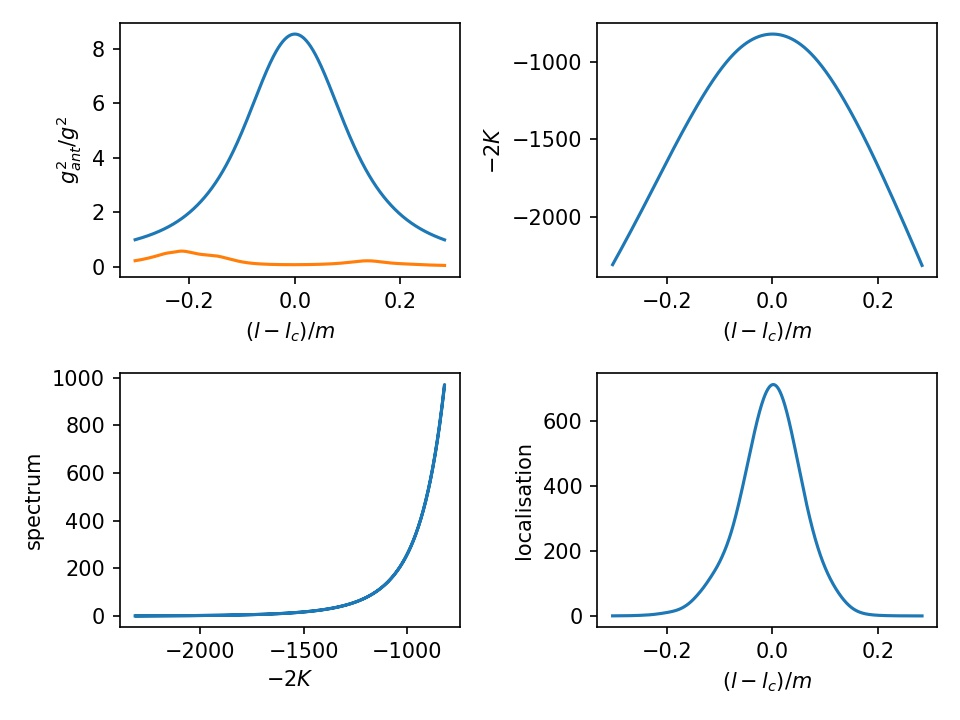
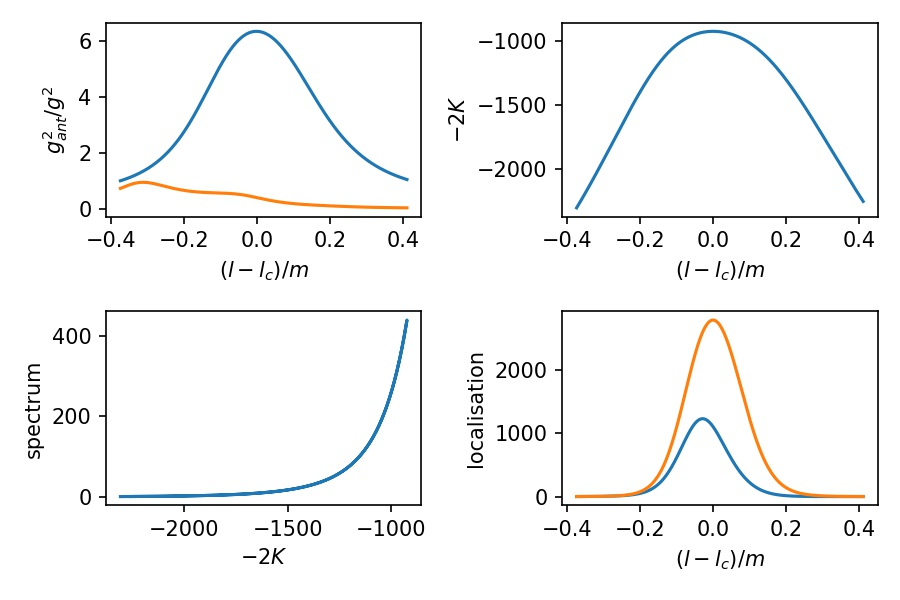
Stable version

diff --git a/Figures/Mismatch/test.tex b/Figures/Mismatch/test.tex
@@ -1,0 +1,126 @@
+% This file was created by tikzplotlib v0.9.6.
+\begin{tikzpicture}
+
+\definecolor{color0}{rgb}{1,0.498039215686275,0.0549019607843137}
+\definecolor{color1}{rgb}{0.12156862745098,0.466666666666667,0.705882352941177}
+
+\begin{axis}[
+tick align=outside,
+tick pos=left,
+x grid style={white!69.0196078431373!black},
+xmin=-16.750022610979, xmax=17.5625278205819,
+xtick style={color=black},
+y grid style={white!69.0196078431373!black},
+ymin=-0.0566298510126379, ymax=1.18968690857077,
+ytick style={color=black}
+]
+\path [draw=color0, semithick]
+(axis cs:-4.52524479559365,0.299268820624092)
+--(axis cs:-4.52524479559365,0.481932891354633);
+
+\path [draw=color0, semithick]
+(axis cs:-8.74341152865101,0.00434167178425971)
+--(axis cs:-8.74341152865101,0.00672697580067228);
+
+\path [draw=color0, semithick]
+(axis cs:-12.6471499750575,0.0025631556316714)
+--(axis cs:-12.6471499750575,0.00685251811732557);
+
+\path [draw=color0, semithick]
+(axis cs:4.68180096928977,0.288945057451303)
+--(axis cs:4.68180096928977,0.686100268555939);
+
+\path [draw=color0, semithick]
+(axis cs:9.53786463242363,0.0123240707514649)
+--(axis cs:9.53786463242363,0.028058707772011);
+
+\path [draw=color0, semithick]
+(axis cs:-0.0303111881273633,0.866963853228478)
+--(axis cs:-0.0303111881273633,1.13303614677152);
+
+\addplot [semithick, color1]
+table {%
+16.0028664373291 2.09107866078145e-05
+15.5019804060835 4.32026966794313e-05
+15.0010134446593 8.65247659168137e-05
+14.5000129794234 0.00016846843599711
+13.9990612616521 0.000317621566449047
+13.5095902258752 0.000572652005800215
+13.0089653000154 0.00102252272783255
+12.508552590023 0.00177437331203595
+12.0083994651273 0.00299401900027605
+11.5203311831527 0.0048639818663355
+11.0209718841691 0.00780234899509983
+10.522031527847 0.0122177458350964
+10.0356467098536 0.0184647027436416
+9.53786463242363 0.0275432326616724
+9.05293227613731 0.0397413362292673
+8.55652691354178 0.056586017969222
+8.07328410735344 0.0780965738763003
+7.57848269775676 0.106443058198679
+7.09715431765188 0.140853843537707
+6.60416962481855 0.184135710586302
+6.12499130656764 0.233971162200415
+5.63408886041246 0.293369389276132
+5.15728469809953 0.35847118331985
+4.68180096928977 0.429962617706465
+4.19445786969287 0.508495778844873
+3.72169700760152 0.587599751400865
+3.2504410303895 0.666830441805864
+2.76716254755995 0.745785888317693
+2.2989438023173 0.816833786397714
+1.83238757889452 0.879465465986436
+1.36756715329542 0.930973848959404
+0.89050442157629 0.970138154833876
+0.429152481010124 0.99298347321993
+-0.0303111881273633 0.999964864660548
+-0.487836802998437 0.990934601497163
+-0.943377343248265 0.966493465996016
+-1.39687879947519 0.927959663251433
+-1.84827411185583 0.877166583706867
+-2.31235747521905 0.814342168927651
+-2.7595525309512 0.746139013335926
+-3.20448712682099 0.673342096157743
+-3.64710983931649 0.598502772271936
+-4.08738073171223 0.524071220820839
+-4.52524479559365 0.452105296199492
+-4.96064151515727 0.38429216206419
+-5.3935303935364 0.321874680850281
+-5.82384575993214 0.265657644753217
+-6.25154788645878 0.216130214744231
+-6.66051471598014 0.174488881110224
+-7.08272032371984 0.13788836740382
+-7.50217143301498 0.107425330446791
+-7.91880044686293 0.0825251736176341
+-8.3325603241366 0.0624266731452902
+-8.74341152865101 0.0465585658203397
+-9.15130722291967 0.0342197077323746
+-9.55620587302388 0.0247986018924741
+-9.95805984926624 0.0177041465166756
+-10.3396653261676 0.0126260602741104
+-10.7352305835748 0.00877205506388833
+-11.1276417048484 0.0060058227896583
+-11.5168608429633 0.00406114067632952
+-11.9028433293092 0.00270359515613201
+-12.2855690608588 0.00177125330725246
+-12.6471499750575 0.00116287680253254
+-13.0232245202713 0.000744042815509411
+-13.3959578043359 0.00046872608321309
+-13.7653324428646 0.000291790653102558
+-14.1313227863844 0.000178794834663396
+-14.4755031362349 0.000110166381860217
+-14.834642744605 6.5888373852192e-05
+-15.1903612277262 3.89053007589173e-05
+};
+\addplot [semithick, color0, mark=*, mark size=3, mark options={solid}, only marks]
+table {%
+-4.52524479559365 0.390600855989362
+-8.74341152865101 0.005534323792466
+-12.6471499750575 0.00470783687449848
+4.68180096928977 0.487522663003621
+9.53786463242363 0.0201913892617379
+-0.0303111881273633 1
+};
+\end{axis}
+
+\end{tikzpicture}

diff --git a/Scotty_main.py b/Scotty_main.py
@@ -19,13 +19,13 @@ numberOfTauPoints = 1001
 saveInterval = 1  # saves every n time steps
 
 poloidal_launch_angle_Torbeam = 4.0 # deg
-# toroidal_launch_angle_Torbeam = -9.25 # deg
-toroidal_launch_angle_Torbeam_scan = np.linspace(0,-10,21)
+toroidal_launch_angle_Torbeam = -5.25 # deg
+# toroidal_launch_angle_Torbeam_scan = np.linspace(-0.5,-7.5,71)
 
 launch_freq_GHz = 55.0
 mode_flag = 1 # O-mode (1) or X-mode (-1)
-launch_beam_width = 0.06 # in m
-launch_beam_curvature = -192 # in m. negative because launched BEFORE the beam waist
+launch_beam_width = 0.0554 # in m
+launch_beam_curvature = -1.77 # in m. negative because launched BEFORE the beam waist
 vacuumLaunch_flag = True # If true, the launch_position is in vacuum. If false, the launch_position is in plasma.
 
 
@@ -52,45 +52,45 @@ find_B_method='efit'
 
 launch_position = np.asarray([2.43521,0,0]) # q_R, q_zeta, q_Z. q_zeta = 0 at launch, by definition
 
-# beam_me_up(tau_step,
-#            numberOfTauPoints,
-#            saveInterval,
-#            poloidal_launch_angle_Torbeam,
-#            toroidal_launch_angle_Torbeam,
-#            launch_freq_GHz,
-#            mode_flag,
-#            vacuumLaunch_flag,
-#            launch_beam_width,
-#            launch_beam_curvature,
-#            launch_position,
-#            find_B_method,
-#            vacuum_propagation_flag,
-#            Psi_BC_flag,
-#            poloidal_flux_enter,
-#            input_filename_suffix,
-#            output_filename_suffix='9',
-#            figure_flag= True)
+beam_me_up(tau_step,
+            numberOfTauPoints,
+            saveInterval,
+            poloidal_launch_angle_Torbeam,
+            toroidal_launch_angle_Torbeam,
+            launch_freq_GHz,
+            mode_flag,
+            vacuumLaunch_flag,
+            launch_beam_width,
+            launch_beam_curvature,
+            launch_position,
+            find_B_method,
+            vacuum_propagation_flag,
+            Psi_BC_flag,
+            poloidal_flux_enter,
+            input_filename_suffix,
+            output_filename_suffix='',
+            figure_flag= True)
 
-for ii in range(0,51):
-    print('Iteration number: ' + str(ii))
+# for ii in range(0,71):
+#     print('Iteration number: ' + str(ii))
     
-    toroidal_launch_angle_Torbeam = toroidal_launch_angle_Torbeam_scan[ii]
+#     toroidal_launch_angle_Torbeam = toroidal_launch_angle_Torbeam_scan[ii]
 
-    beam_me_up(tau_step,
-              numberOfTauPoints,
-              saveInterval,
-              poloidal_launch_angle_Torbeam,
-              toroidal_launch_angle_Torbeam,
-              launch_freq_GHz,
-              mode_flag,
-              vacuumLaunch_flag,
-              launch_beam_width,
-              launch_beam_curvature,
-              launch_position,
-              find_B_method,
-              vacuum_propagation_flag,
-              Psi_BC_flag,
-              poloidal_flux_enter,
-              input_filename_suffix,
-              output_filename_suffix=str(ii),
-              figure_flag= True)
+#     beam_me_up(tau_step,
+#               numberOfTauPoints,
+#               saveInterval,
+#               poloidal_launch_angle_Torbeam,
+#               toroidal_launch_angle_Torbeam,
+#               launch_freq_GHz,
+#               mode_flag,
+#               vacuumLaunch_flag,
+#               launch_beam_width,
+#               launch_beam_curvature,
+#               launch_position,
+#               find_B_method,
+#               vacuum_propagation_flag,
+#               Psi_BC_flag,
+#               poloidal_flux_enter,
+#               input_filename_suffix,
+#               output_filename_suffix=str(ii),
+#               figure_flag= False)

diff --git a/Figures/Localisation/Localisation4.py b/Figures/Localisation/Localisation4.py
@@ -101,17 +101,20 @@ def find_D_matrix(K_magnitude,launch_angular_frequency,epsilon_para,epsilon_perp
 
     return D_matrix
 
+def find_nearest(array,  value): #returns the index
+    array = np.asarray(array)
+    idx = (np.abs(array - value)).argmin()
+    return int(idx)
 
 
 
+suffix = '33'
 
-
-
-loadfile = np.load('data_input.npz')
+loadfile = np.load('data_input' + suffix + '.npz')
 launch_freq_GHz =loadfile['launch_freq_GHz']
 loadfile.close()
 
-loadfile = np.load('analysis_output.npz')
+loadfile = np.load('analysis_output' + suffix + '.npz')
 #localisation_piece = loadfile['localisation_piece']
 cutoff_index = loadfile['cutoff_index']
 RZ_distance_along_line = loadfile['RZ_distance_along_line']
@@ -129,7 +132,7 @@ theta_m_output = loadfile['theta_m_output']
 K_magnitude_array = loadfile['K_magnitude_array']
 loadfile.close()
 
-loadfile = np.load('data_output.npz')
+loadfile = np.load('data_output' + suffix + '.npz')
 g_magnitude_output = loadfile['g_magnitude_output']
 q_R_array = loadfile['q_R_array']
 K_R_array = loadfile['K_R_array']
@@ -211,7 +214,7 @@ plt.ylim(0,1)
 
 
 
-out_index_new=out_index+50
+out_index_new=out_index-20
 
 ray_localisation_piece = g_magnitude[0]**2/g_magnitude**2
 
@@ -234,8 +237,17 @@ Psi_w[:,0,1] = Psi_w[:,1,0]
 beam_localisation_piece = np.linalg.det(np.imag(Psi_w)) / abs(np.linalg.det(M_w))
 # --
 
+ray_and_spectrum_piece = ray_localisation_piece * spectrum
 overall_localisation_piece = beam_localisation_piece * ray_localisation_piece * spectrum
+localisation_no_spectrum = beam_localisation_piece * ray_localisation_piece
 
+localisation_1_over_e = overall_localisation_piece.max() / (np.e)
+localisation_index = find_nearest(overall_localisation_piece,overall_localisation_piece.max())
+localised_distance_from_cutoff = distance_along_line[localisation_index]-distance_along_line[cutoff_index]
+
+w_1_over_e_index_1 = find_nearest(overall_localisation_piece[0:localisation_index],localisation_1_over_e)
+w_1_over_e_index_2 = localisation_index + find_nearest(overall_localisation_piece[localisation_index:],localisation_1_over_e)
+half_width = 0.5*(distance_along_line[w_1_over_e_index_2] - distance_along_line[w_1_over_e_index_1])
 
 plt.figure()
 plt.subplot(2,2,1)
@@ -253,11 +265,14 @@ plt.ylabel('spectrum')
 plt.xlabel(r'$- 2 K$')
 plt.subplot(2,2,4)
 plt.plot(distance_along_line[:out_index_new]-distance_along_line[cutoff_index],overall_localisation_piece[:out_index_new])
+plt.plot(distance_along_line[:out_index_new]-distance_along_line[cutoff_index],ray_and_spectrum_piece[:out_index_new])
 plt.xlabel(r'$(l - l_c) / m$')
 plt.ylabel('localisation')
 plt.tight_layout(pad=1.08, h_pad=None, w_pad=None, rect=None)
 plt.savefig('localisation.jpg',dpi=150)
 
+plt.figure()
+plt.plot(distance_along_line[:out_index_new]-distance_along_line[cutoff_index],localisation_no_spectrum[:out_index_new])
 
 plt.figure()
 plt.plot(distance_along_line[:out_index_new]-distance_along_line[cutoff_index],beam_localisation_piece[:out_index_new])

diff --git a/Figures/Mismatch/ExtractDataFromSweep.py b/Figures/Mismatch/ExtractDataFromSweep.py
@@ -8,6 +8,7 @@ Created on Sun Sep 27 08:37:48 2020
 import numpy as np
 import matplotlib.pyplot as plt
 from scipy.integrate import simps
+import tikzplotlib
 
 
 
@@ -39,11 +40,19 @@ from scipy.integrate import simps
 #theta_m_output = loadfile['theta_m_output']
 #loadfile.close()
 
-numberOfRuns = 41
+numberOfRuns = 71
+# toroidal_launch_angle_Torbeam_scan = np.linspace(-0.5,-7.5,71)
 
-mismatch_angle_offset = np.asarray([6.17073,10.24059,13.86935,-3.20812,-8.38919,1.668527])
+
+## The following values are ordered
+# 29904, 29905, 29906, 29908, 29909, 29910 # Shot number
+#     7,     8,     9,     5,     4,     6 # As recorded in the DBS logs
+#    -4,    -5,    -6,    -2,    -1,    -3 # In Jon's paper (no offset, presumably) (just the sign convention, and the 3deg from some misalignment between the mirror and flange)
+#    -5,    -6,    -7,    -3,    -2,    -4 # What I am using, ie 1 deg offset
+    
 scattered_power = np.asarray([0.000373357,5.29E-06,4.50E-06,4.66E-04,1.93E-05,0.000955853])
 scattered_power_stdev = np.asarray([8.73E-05,1.14E-06,2.05E-06,0.000189811,7.52E-06,0.000127163])
+# --
 
 theta_m_sweep                = np.zeros(numberOfRuns)
 delta_theta_m_sweep          = np.zeros(numberOfRuns) 
@@ -61,6 +70,9 @@ for ii in range(0,numberOfRuns):
     delta_theta_m_sweep[ii]          = delta_theta_m[cutoff_index] 
     k_perp_1_backscattered_sweep[ii] = k_perp_1_backscattered[cutoff_index]
     
+mismatch_angle_offset = np.rad2deg(np.asarray([theta_m_sweep[43],theta_m_sweep[53],theta_m_sweep[63],theta_m_sweep[23],theta_m_sweep[13],theta_m_sweep[33]]))
+# mismatch_angle_offset = np.asarray([6.17073,10.24059,13.86935,-3.20812,-8.38919,1.668527])
+    
 k_to_choose = k_perp_1_backscattered_sweep[0]
 turbulence_piece = (k_perp_1_backscattered_sweep/k_to_choose)**(-2*10/3)
 plt.figure()
@@ -68,5 +80,7 @@ plt.plot(np.rad2deg(theta_m_sweep),np.exp(-(theta_m_sweep/delta_theta_m_sweep)**
 #plt.plot(np.rad2deg(theta_m_sweep),np.exp(-(theta_m_sweep/delta_theta_m_sweep)**2)*turbulence_piece)
 plt.errorbar(mismatch_angle_offset, scattered_power/max(scattered_power), yerr=(scattered_power_stdev/max(scattered_power)), fmt='o',label='Data')
 
-plt.figure()
-plt.plot(theta_m_sweep)
+# plt.figure()
+# plt.plot(theta_m_sweep)
+
+tikzplotlib.save("test.tex")

diff --git a/Scotty_beam_me_up.py b/Scotty_beam_me_up.py
@@ -278,6 +278,8 @@ def beam_me_up(tau_step,
         unnormalizedPoloidalFlux = fluxFunctionProfiles.variables['poloidalFlux'][time_index][:] # poloidalFlux as a function of normalised poloidal flux
         rBphi = fluxFunctionProfiles.variables['rBphi'][time_index][:] 
 
+        dataset.close()
+
         interp_rBphi = interpolate.interp1d(poloidalFlux, rBphi, 
                                                  kind='cubic', axis=-1, copy=True, bounds_error=True, 
                                                  fill_value=0, assume_sorted=False)
@@ -1188,7 +1190,7 @@ def beam_me_up(tau_step,
     sin_theta_m_analysis = np.zeros(numberOfDataPoints)
     sin_theta_m_analysis[:] = (b_hat_output[:,0]*K_R_array[:] + b_hat_output[:,1]*K_zeta_initial/q_R_array[:] + b_hat_output[:,2]*K_Z_array[:]) / (K_magnitude_array[:]) # B \cdot K / (abs (B) abs(K))
     theta_m_output = np.sign(sin_theta_m_analysis)*np.arcsin(abs(sin_theta_m_analysis)) # Assumes the mismatch angle is never smaller than -90deg or bigger than 90deg
-#    print(theta_m_output[cutoff_index])
+    print(theta_m_output[cutoff_index])
 #    print(cutoff_index)
     
 #    g_magnitude_launch = find_g_magnitude(launch_position[0],launch_position[1],K_R_launch,K_zeta_launch,K_Z_launch,
@@ -1197,6 +1199,7 @@ def beam_me_up(tau_step,
 #    d_K_d_tau_analysis = np.gradient(K_magnitude_array,tau_array)
 #    localisation_piece = g_magnitude_launch**2/abs(g_magnitude_output*d_K_d_tau_analysis)
     
+    # This part is used to make some nice plots when post-processing
     R_midplane_points = np.linspace(data_R_coord[0],data_R_coord[-1],1000)
     poloidal_flux_on_midplane = np.zeros_like(R_midplane_points)
     for ii in range(0,1000):

diff --git a/Scotty_plot2.py b/Scotty_plot2.py
@@ -9,7 +9,7 @@ import numpy as np
 import matplotlib.pyplot as plt
 from Scotty_fun_general import find_waist, find_distance_from_waist,find_q_lab_Cartesian, find_nearest, contract_special
 
-suffix = '2'
+suffix = '33'
 
 loadfile = np.load('data_output' + suffix + '.npz')
 tau_array = loadfile['tau_array']
